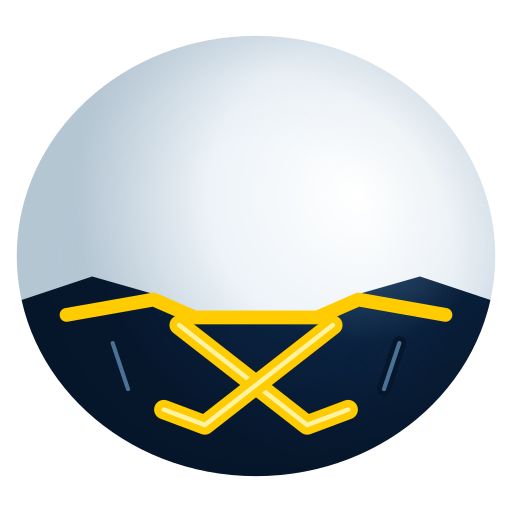
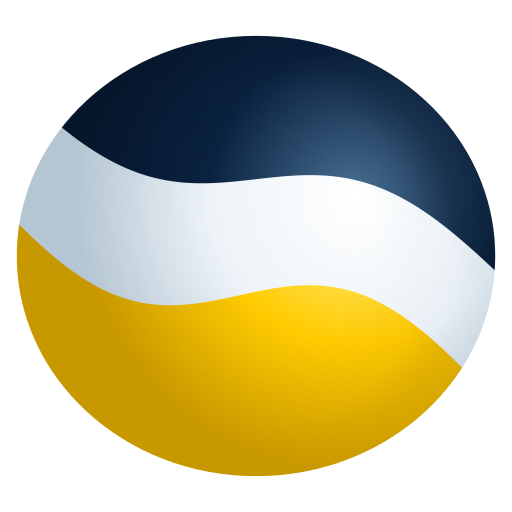
Simplify HV71 to flowing blue white and yellow color fields

diff --git a/snake-style-config.js b/snake-style-config.js
@@ -1,2 +1,2 @@
 // Generated from the approved template specs. Run tools/export-snake-styles.cjs.
-(function(root){const config={"skins":["klassisk","jordgubbe","basketboll","isbla","rosa","lila","smaragd","regnbage","guld","polkagris","galax","vattenmelon","fotboll","miamisunset","inferno","aurora","hav","lava","obsidian","blackpink","skog","radioaktiv","plasma","clockwork","runorm","prismagodis","skuggmysterium","tidvatten","museumvaktaren","stjarnarkiv","solregent","stjarnhimmel","ghost","kunglig","hv71"],"rendering":{"minimumOpacity":0.75,"fadePerSegment":0.0125,"toyOutlineWidth":0.025,"toyOutlineOpacity":0.62,"toyShadowBlur":0.16,"toyShadowOffset":0.14,"shadowOpacity":0.48,"pixelShadowBlur":0.7,"pixelShadowOffset":1,"pixelFinalSmoothing":true},"headAttachment":{"center":[0.5,0.5],"radiusX":0.4671875,"radiusY":0.43,"eyes":[[0.3,0.29],[0.7,0.29]],"pixelEyes":[[0.3,0.34],[0.7,0.34]],"rearDecorationAnchors":[[0.17,0.68],[0.83,0.68]],"decorationMinimumY":0.6},"headAccessories":{"kunglig":"crown"},"materialOpacities":{"ghost":0.68},"assetRevisions":{"inferno":2,"radioaktiv":2,"plasma":2,"hv71":2},"colorCycles":{"regnbage":{"hues":[0,30,55,115,175,220,275],"intervalMs":1400}},"outlineColors":{"klassisk":"#10361d","jordgubbe":"#390d15","basketboll":"#43240f","isbla":"#103747","rosa":"#47233a","lila":"#302046","smaragd":"#12392e","regnbage":"#431919","guld":"#443214","polkagris":"#672036","galax":"#101828","vattenmelon":"#26352a","fotboll":"#252931","miamisunset":"#26314d","inferno":"#683b12","aurora":"#11192d","hav":"#0d3149","lava":"#17131e","obsidian":"#101020","blackpink":"#190f1c","skog":"#182c24","radioaktiv":"#06190f","plasma":"#080f24","clockwork":"#142022","runorm":"#192624","prismagodis":"#392742","skuggmysterium":"#111622","tidvatten":"#102c37","museumvaktaren":"#111c30","stjarnarkiv":"#101d34","solregent":"#552518","stjarnhimmel":"#11152b","ghost":"#1a526f","kunglig":"#261735","hv71":"#0a2240"},"styles":{"toy":{"frame":512,"headScale":1.12,"bodyScale":1.3608,"pivot":[256,64],"chord":188.76501370751944},"pixel":{"frame":32,"headScale":1.03,"bodyScale":1.3608,"pivot":[16,4],"chord":11}}};if(typeof module!=="undefined"&&module.exports)module.exports=config;else root.SnakeStyleConfig=config;})(typeof globalThis!=="undefined"?globalThis:this);
+(function(root){const config={"skins":["klassisk","jordgubbe","basketboll","isbla","rosa","lila","smaragd","regnbage","guld","polkagris","galax","vattenmelon","fotboll","miamisunset","inferno","aurora","hav","lava","obsidian","blackpink","skog","radioaktiv","plasma","clockwork","runorm","prismagodis","skuggmysterium","tidvatten","museumvaktaren","stjarnarkiv","solregent","stjarnhimmel","ghost","kunglig","hv71"],"rendering":{"minimumOpacity":0.75,"fadePerSegment":0.0125,"toyOutlineWidth":0.025,"toyOutlineOpacity":0.62,"toyShadowBlur":0.16,"toyShadowOffset":0.14,"shadowOpacity":0.48,"pixelShadowBlur":0.7,"pixelShadowOffset":1,"pixelFinalSmoothing":true},"headAttachment":{"center":[0.5,0.5],"radiusX":0.4671875,"radiusY":0.43,"eyes":[[0.3,0.29],[0.7,0.29]],"pixelEyes":[[0.3,0.34],[0.7,0.34]],"rearDecorationAnchors":[[0.17,0.68],[0.83,0.68]],"decorationMinimumY":0.6},"headAccessories":{"kunglig":"crown"},"materialOpacities":{"ghost":0.68},"assetRevisions":{"inferno":2,"radioaktiv":2,"plasma":2,"hv71":3},"colorCycles":{"regnbage":{"hues":[0,30,55,115,175,220,275],"intervalMs":1400}},"outlineColors":{"klassisk":"#10361d","jordgubbe":"#390d15","basketboll":"#43240f","isbla":"#103747","rosa":"#47233a","lila":"#302046","smaragd":"#12392e","regnbage":"#431919","guld":"#443214","polkagris":"#672036","galax":"#101828","vattenmelon":"#26352a","fotboll":"#252931","miamisunset":"#26314d","inferno":"#683b12","aurora":"#11192d","hav":"#0d3149","lava":"#17131e","obsidian":"#101020","blackpink":"#190f1c","skog":"#182c24","radioaktiv":"#06190f","plasma":"#080f24","clockwork":"#142022","runorm":"#192624","prismagodis":"#392742","skuggmysterium":"#111622","tidvatten":"#102c37","museumvaktaren":"#111c30","stjarnarkiv":"#101d34","solregent":"#552518","stjarnhimmel":"#11152b","ghost":"#1a526f","kunglig":"#261735","hv71":"#0a2240"},"styles":{"toy":{"frame":512,"headScale":1.12,"bodyScale":1.3608,"pivot":[256,64],"chord":188.76501370751944},"pixel":{"frame":32,"headScale":1.03,"bodyScale":1.3608,"pivot":[16,4],"chord":11}}};if(typeof module!=="undefined"&&module.exports)module.exports=config;else root.SnakeStyleConfig=config;})(typeof globalThis!=="undefined"?globalThis:this);

diff --git a/skin-templates/runtime-preview.html b/skin-templates/runtime-preview.html
@@ -7,7 +7,7 @@
 *{box-sizing:border-box}body{margin:0;padding:24px;background:#f5f0e4;color:#183b35;font:16px system-ui,sans-serif}main{max-width:1160px;margin:auto}h1{margin:0 0 8px;font-size:26px}p{line-height:1.5}button{font:inherit;padding:8px 14px;border:1px solid #789184;border-radius:10px;background:#fffaf0;color:inherit;cursor:pointer}article{margin:22px 0;padding:20px;border:1px solid #cdd6c9;border-radius:18px;background:#fffaf0}h2{margin:0 0 12px;font-size:23px}.styles{display:grid;grid-template-columns:1fr 1fr;gap:22px}h3{margin:0 0 8px;font-size:16px}canvas{display:block;width:100%;height:auto;background:#e4edde;border-radius:12px;image-rendering:auto}.note{margin:12px 0 0;font-size:13px;color:#456057}@media(max-width:650px){body{padding:12px}.styles{grid-template-columns:1fr}article{padding:14px}}
 </style>
 <main><h1>SifferSnoken · riktiga skinpreviews</h1><p>Samma WebP-filer, former, ögon och svansfästen som i spelet. Utan längdnedtoning; Ghost behåller sin genomskinlighet.</p><button id="pause">Pausa färgerna</button><div id="previews"></div><p id="status" role="status">Laddar tillgångar…</p></main>
-<script src="../snake-style-config.js?v=snake-styles-20"></script>
+<script src="../snake-style-config.js?v=snake-styles-21"></script>
 <script src="../snake-colors.js?v=snake-styles-4"></script>
 <script src="../snake-headwear-designs.js?v=headwear-3"></script>
 <script src="../snake-headwear.js?v=headwear-3"></script>

diff --git a/skin-templates/headwear-preview.html b/skin-templates/headwear-preview.html
@@ -6,7 +6,7 @@
 *{box-sizing:border-box}body{margin:0;padding:24px;background:#f5f0e4;color:#183b35;font:16px system-ui,sans-serif}main{max-width:1080px;margin:auto}h1{font-size:26px;margin:0 0 10px}p{line-height:1.5}article{background:#fffaf0;border:1px solid #cdd6c9;border-radius:18px;padding:20px;margin:22px 0}h2{margin:0 0 14px}h3{font-size:16px;margin:0 0 8px}.styles{display:grid;grid-template-columns:1fr 1fr;gap:20px}canvas{display:block;width:100%;height:auto;border-radius:12px}label{display:inline-flex;gap:6px;margin-right:14px}@media(max-width:650px){body{padding:12px}.styles{grid-template-columns:1fr}article{padding:14px}}
 </style>
 <main><h1>Alla 30 huvudbonader · passformsprov</h1><p>Klassisk, Jordgubbe och Ghost, i alla fyra riktningar. Samma renderer och fästpunkter som i spelet. Ögon och huvudstorlekar är oförändrade.</p><label><input type="checkbox" id="blink">Visa blinkning</label><label><input type="checkbox" id="off">Utan bonad</label><div id="previews"></div><p id="status">Laddar…</p></main>
-<script src="../snake-style-config.js?v=snake-styles-20"></script>
+<script src="../snake-style-config.js?v=snake-styles-21"></script>
 <script src="../snake-colors.js?v=snake-styles-4"></script>
 <script src="../snake-headwear-designs.js?v=headwear-3"></script>
 <script src="../snake-headwear.js?v=headwear-3"></script>

diff --git a/skin-templates/headwear-gallery.html b/skin-templates/headwear-gallery.html
@@ -4,7 +4,7 @@
 <main><h1>SifferSnoken · alla 30 huvudbonader</h1><p>Modern och Pixelretro · samma huvud och renderer som i spelet.</p>
 <label>Skin <select id="skin"><option value="klassisk">Klassisk</option><option value="jordgubbe">Jordgubbe</option><option value="ghost">Ghost</option></select></label><label>Riktning <select id="direction"><option value="right">Höger</option><option value="up">Upp</option><option value="down">Ned</option><option value="left">Vänster</option></select></label><label><input type="checkbox" id="blink">Blinkning</label>
 <h2>Modern · mjuka leksaksformer</h2><canvas id="toy" width="1120" height="760"></canvas><h2>Pixelretro</h2><canvas id="pixel" width="1120" height="760"></canvas><p id="status">Laddar…</p></main>
-<script src="../snake-style-config.js?v=snake-styles-20"></script><script src="../snake-colors.js?v=snake-styles-4"></script>
+<script src="../snake-style-config.js?v=snake-styles-21"></script><script src="../snake-colors.js?v=snake-styles-4"></script>
 <script src="../snake-headwear-designs.js?v=headwear-3"></script><script src="../snake-headwear.js?v=headwear-3"></script><script src="../snake-styles.js?v=snake-styles-9"></script>
 <script>
 const renderer=SnakeStyles.createRenderer({assetPrefix:'../'});

diff --git a/index.html b/index.html
@@ -1093,7 +1093,7 @@ body[data-graphics="pixel"] #c,body[data-graphics="pixel"] .skin-canvas-wrap can
 <div id="medalToast"></div>
 
 <script src="translations.js?v=3.12"></script>
-<script src="snake-style-config.js?v=snake-styles-20"></script>
+<script src="snake-style-config.js?v=snake-styles-21"></script>
 <script src="snake-colors.js?v=snake-styles-4"></script>
 <script src="snake-headwear-designs.js?v=headwear-3"></script>
 <script src="snake-headwear.js?v=headwear-3"></script>

diff --git a/skin-templates/README.md b/skin-templates/README.md
@@ -168,4 +168,4 @@ Stjärnhimmel och Ghost är kontrollerade i båda stilarna på desktop och vid 3
 - Förhandsvisningen använder spelets nuvarande standardvärden 1,26 i kroppsskala och 1,08 i överlappning. Denna geometrikontroll ersätter inte ett speltest.
 - Bevara ursprungliga modernassets under hela migreringen. Inga upplåsningskrav ska ändras när grafiklägena kopplas in.
 
-Kunglig har lila skulpterad volym med två öppna gyllene brokadslingor och små diamantstygn, utan stora kroppsemblem. Auto visar den nya kronan; huvudets låsta storlek ändras inte. HV71 (revision 2) har vita matchtröjeinspirerade ytor med mörkblå axel-/sidopaneler och breda gula muddar. Huvudets blå hjälminspirerade bakdel har korsade klubbor och små ventilationsspår bakom ögonen. Referensfärgerna är blå `#0a2240` och gul `#ffcb01` enligt [HV71:s grafiska riktlinjer](https://www.hv71.se/grafiska-riktlinjer), tillsammans med vitt; klubbens logotyp är inte reproducerad. Alla motiv är bakade i WebP och `assetRevision: 2` versionshämtar endast HV71:s tolv ändrade runtimebilder. Samma ytor följer huvud och kort smal svans. Kroppsmönstren är fasta, Pixelretro använder sex färger, Modern bakar ljuset i förlustfri WebP. Båda är jämförda med konceptmålen och testade i spel på desktop/390 px mobil med 33 segment, svansnedtoning och separat vanlig rörelse/svängar. Upplåsningar är oförändrade. Runtime-previews: `runtime-preview.html?skins=kunglig` och `?skins=hv71`.
+Kunglig har lila skulpterad volym med två öppna gyllene brokadslingor och små diamantstygn, utan stora kroppsemblem. Auto visar den nya kronan; huvudets låsta storlek ändras inte. HV71 (revision 3) använder enbart breda, mjukt svepande blå, vita och gula färgfält, med samma layout på huvud, kropp och kort smal svans. Inga matchtröje-, hjälm- eller hockeymotiv används: inga klubbor, puckar, ventilationsspår eller logotyper. Referensfärgerna är blå `#0a2240` och gul `#ffcb01` enligt [HV71:s grafiska riktlinjer](https://www.hv71.se/grafiska-riktlinjer), tillsammans med vitt. Alla färgfält är bakade i WebP och `assetRevision: 3` versionshämtar endast HV71:s tolv ändrade runtimebilder. Kroppsmönstren är fasta, Pixelretro använder sex färger, Modern bakar ljuset i förlustfri WebP. Båda är jämförda med konceptmålen och testade i spel på desktop/390 px mobil med 33 segment, svansnedtoning och separat vanlig rörelse/svängar; detta inkluderar HV71:s revision 3. Upplåsningar är oförändrade. Runtime-previews: `runtime-preview.html?skins=kunglig` och `?skins=hv71`.

diff --git a/CHANGELOG.md b/CHANGELOG.md
@@ -2,6 +2,12 @@
 
 ## 2026-10-05
 
+### HV71: ren trefärgsdesign
+
+- Ersätter matchtröja och hjälmmotiv med breda, mjukt svepande blå, vita och gula färgfält på huvud, kropp och svans i båda stilarna.
+- Inga hockeyklubbor, puckar, hjälmdetaljer eller logotyper. HV71:s referensfärger behålls; form, ögon, svansfäste och upplåsning är oförändrade.
+- Revision 3 versionshämtar endast HV71:s tolv WebP-tillgångar. Original och andra skins ändras inte.
+
 ### HV71: tydligare hockeykänsla
 
 - Matchtröjeinspirerade vita kroppar med mörkblå axelpartier, sidopaneler och breda gula muddar, i både Modern och Pixelretro.
